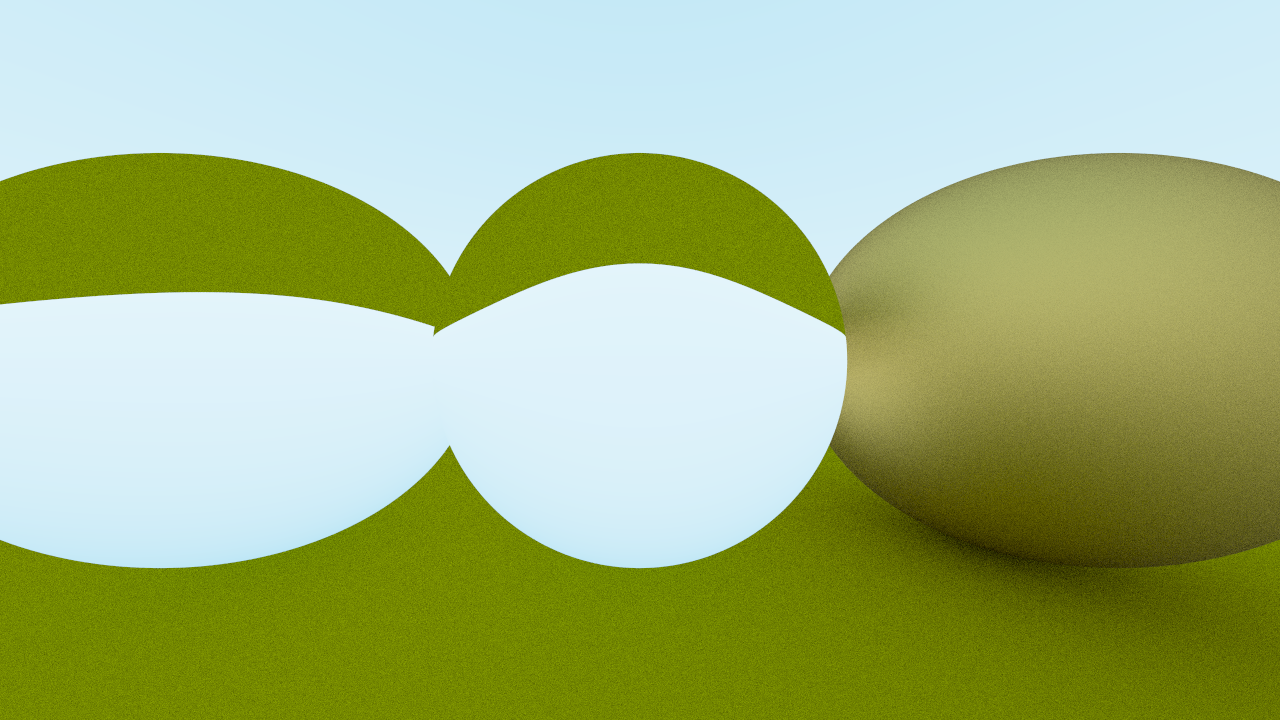
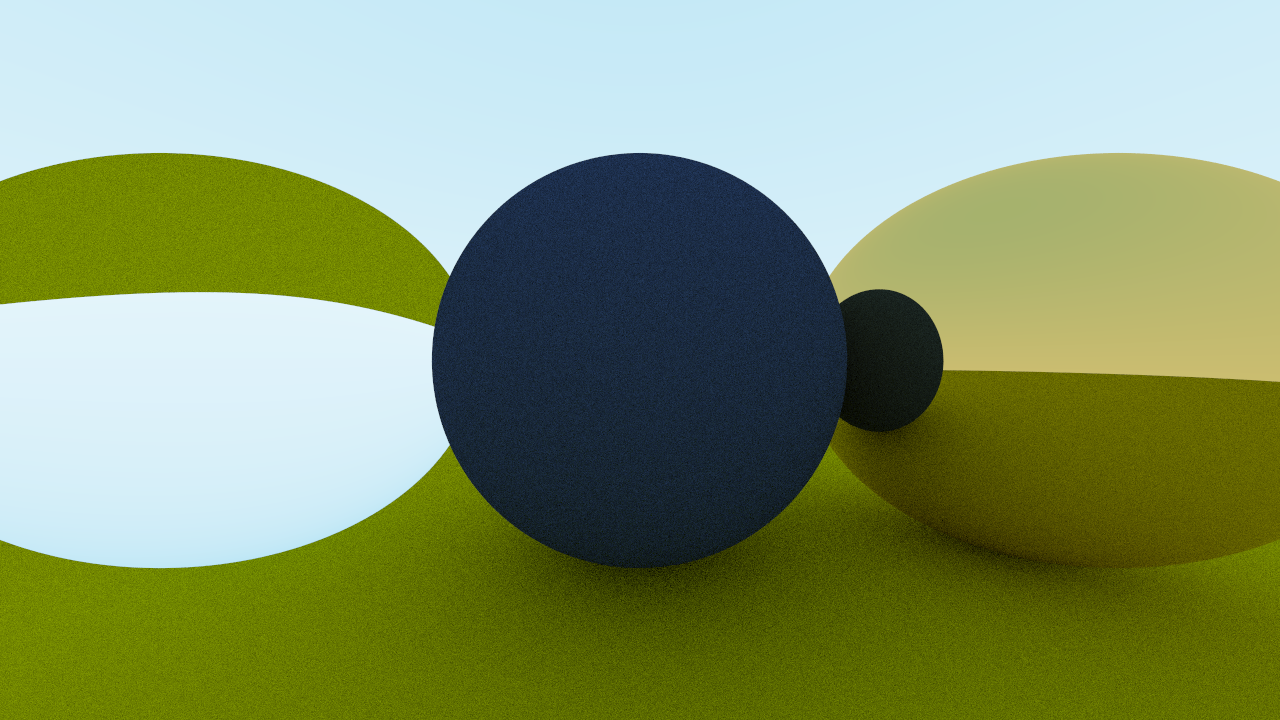
Finished section 10.3: "Total Internal Reflection"

diff --git a/src/obstacle.rs b/src/obstacle.rs
@@ -307,8 +307,18 @@ pub mod material {
             };
 
             let unit_direction = incident_ray.direction().normalized();
-            let refracted = unit_direction.refract(hit.normal(), refraction_ratio);
-            Some((Ray::new(hit.p, refracted), self.attenuation))
+
+            let cos_theta = (-unit_direction * hit.normal()).min(1.0);
+            let sin_theta = (1.0 - cos_theta.powi(2)).sqrt();
+
+            let cannot_refract = (refraction_ratio * sin_theta) > 1.0;
+            let direction = if cannot_refract {
+                unit_direction.reflect(hit.normal())
+            } else {
+                unit_direction.refract(hit.normal(), refraction_ratio)
+            };
+
+            Some((Ray::new(hit.p, direction), self.attenuation))
         }
     }
 }

diff --git a/src/main.rs b/src/main.rs
@@ -27,7 +27,7 @@ fn main() -> Result<()> {
         Box::new(Sphere::new(
             Point3D::new(0, 0, -1),
             0.5,
-            material::Dielectric::new(1.5, Color::WHITE),
+            material::Lambertian::new(0.8, Color::new(0.1, 0.2, 0.5)),
         )),
         Box::new(Sphere::new(
             Point3D::new(-1, 0, -1),
@@ -37,7 +37,7 @@ fn main() -> Result<()> {
         Box::new(Sphere::new(
             Point3D::new(1, 0, -1),
             0.5,
-            material::Metal::new(Color::new(0.8, 0.6, 0.2), 1.0),
+            material::Metal::new(Color::new(0.8, 0.6, 0.2), 0.0),
         )),
     ]);
 
